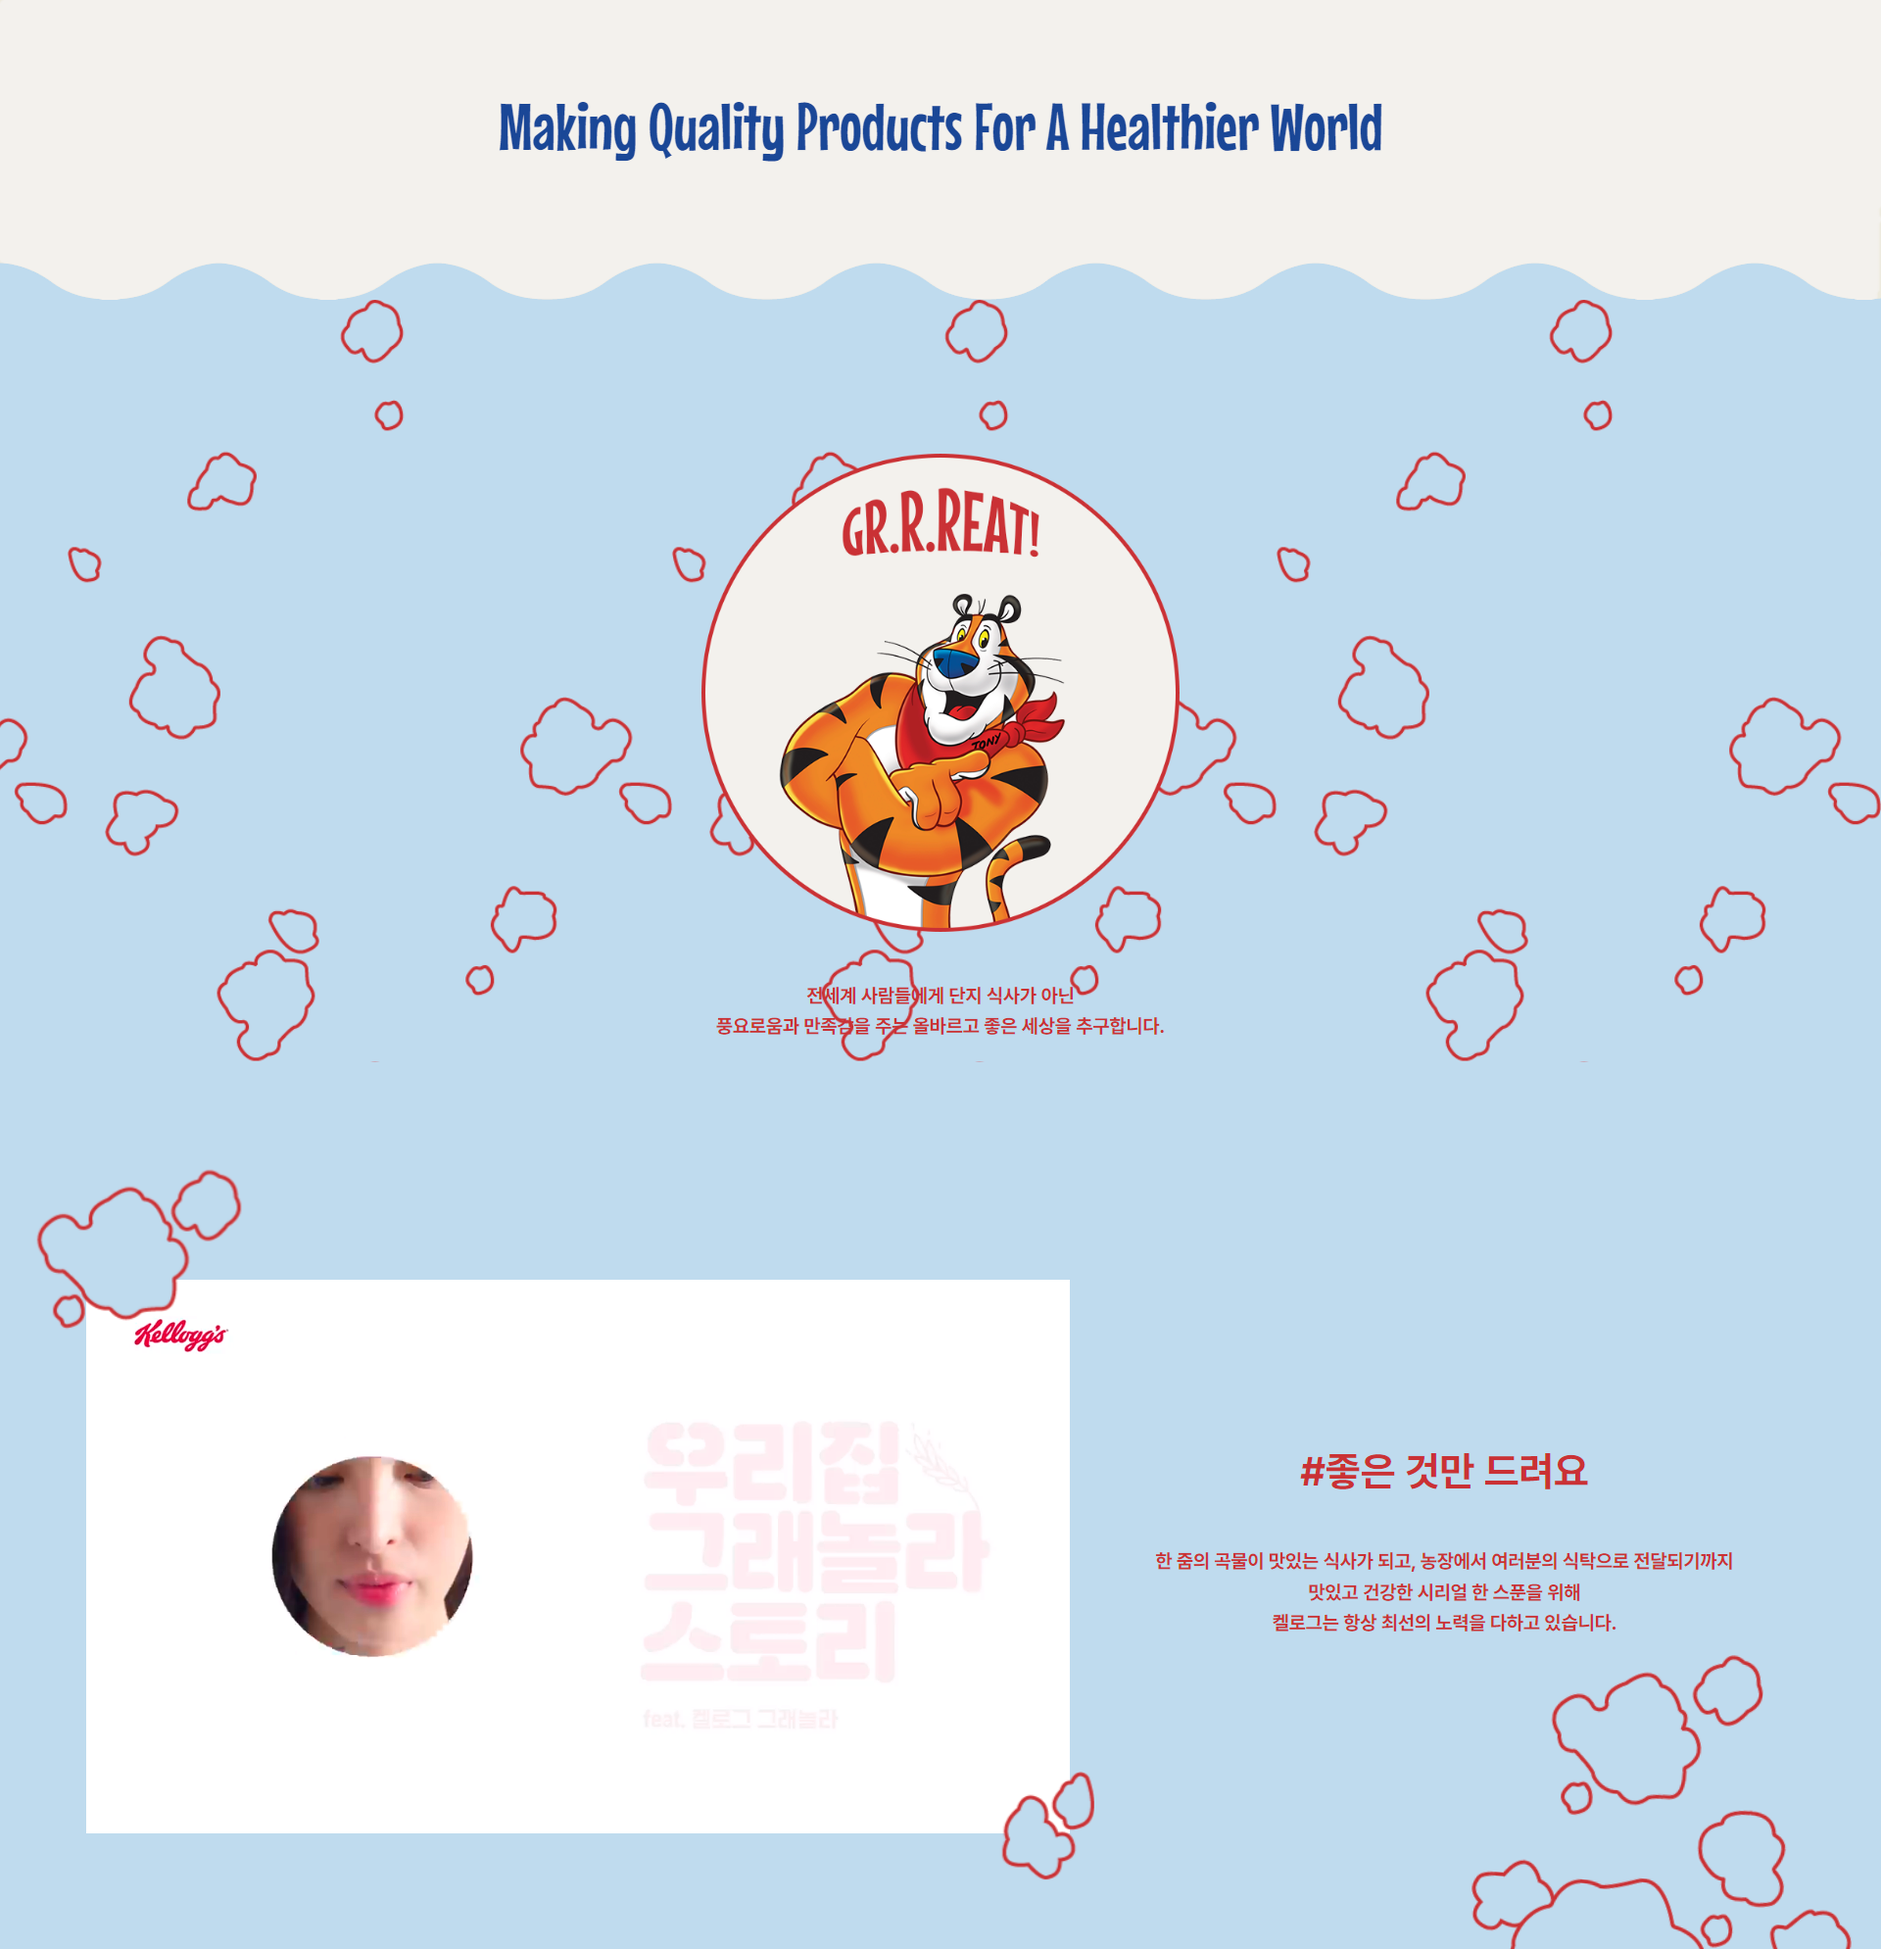
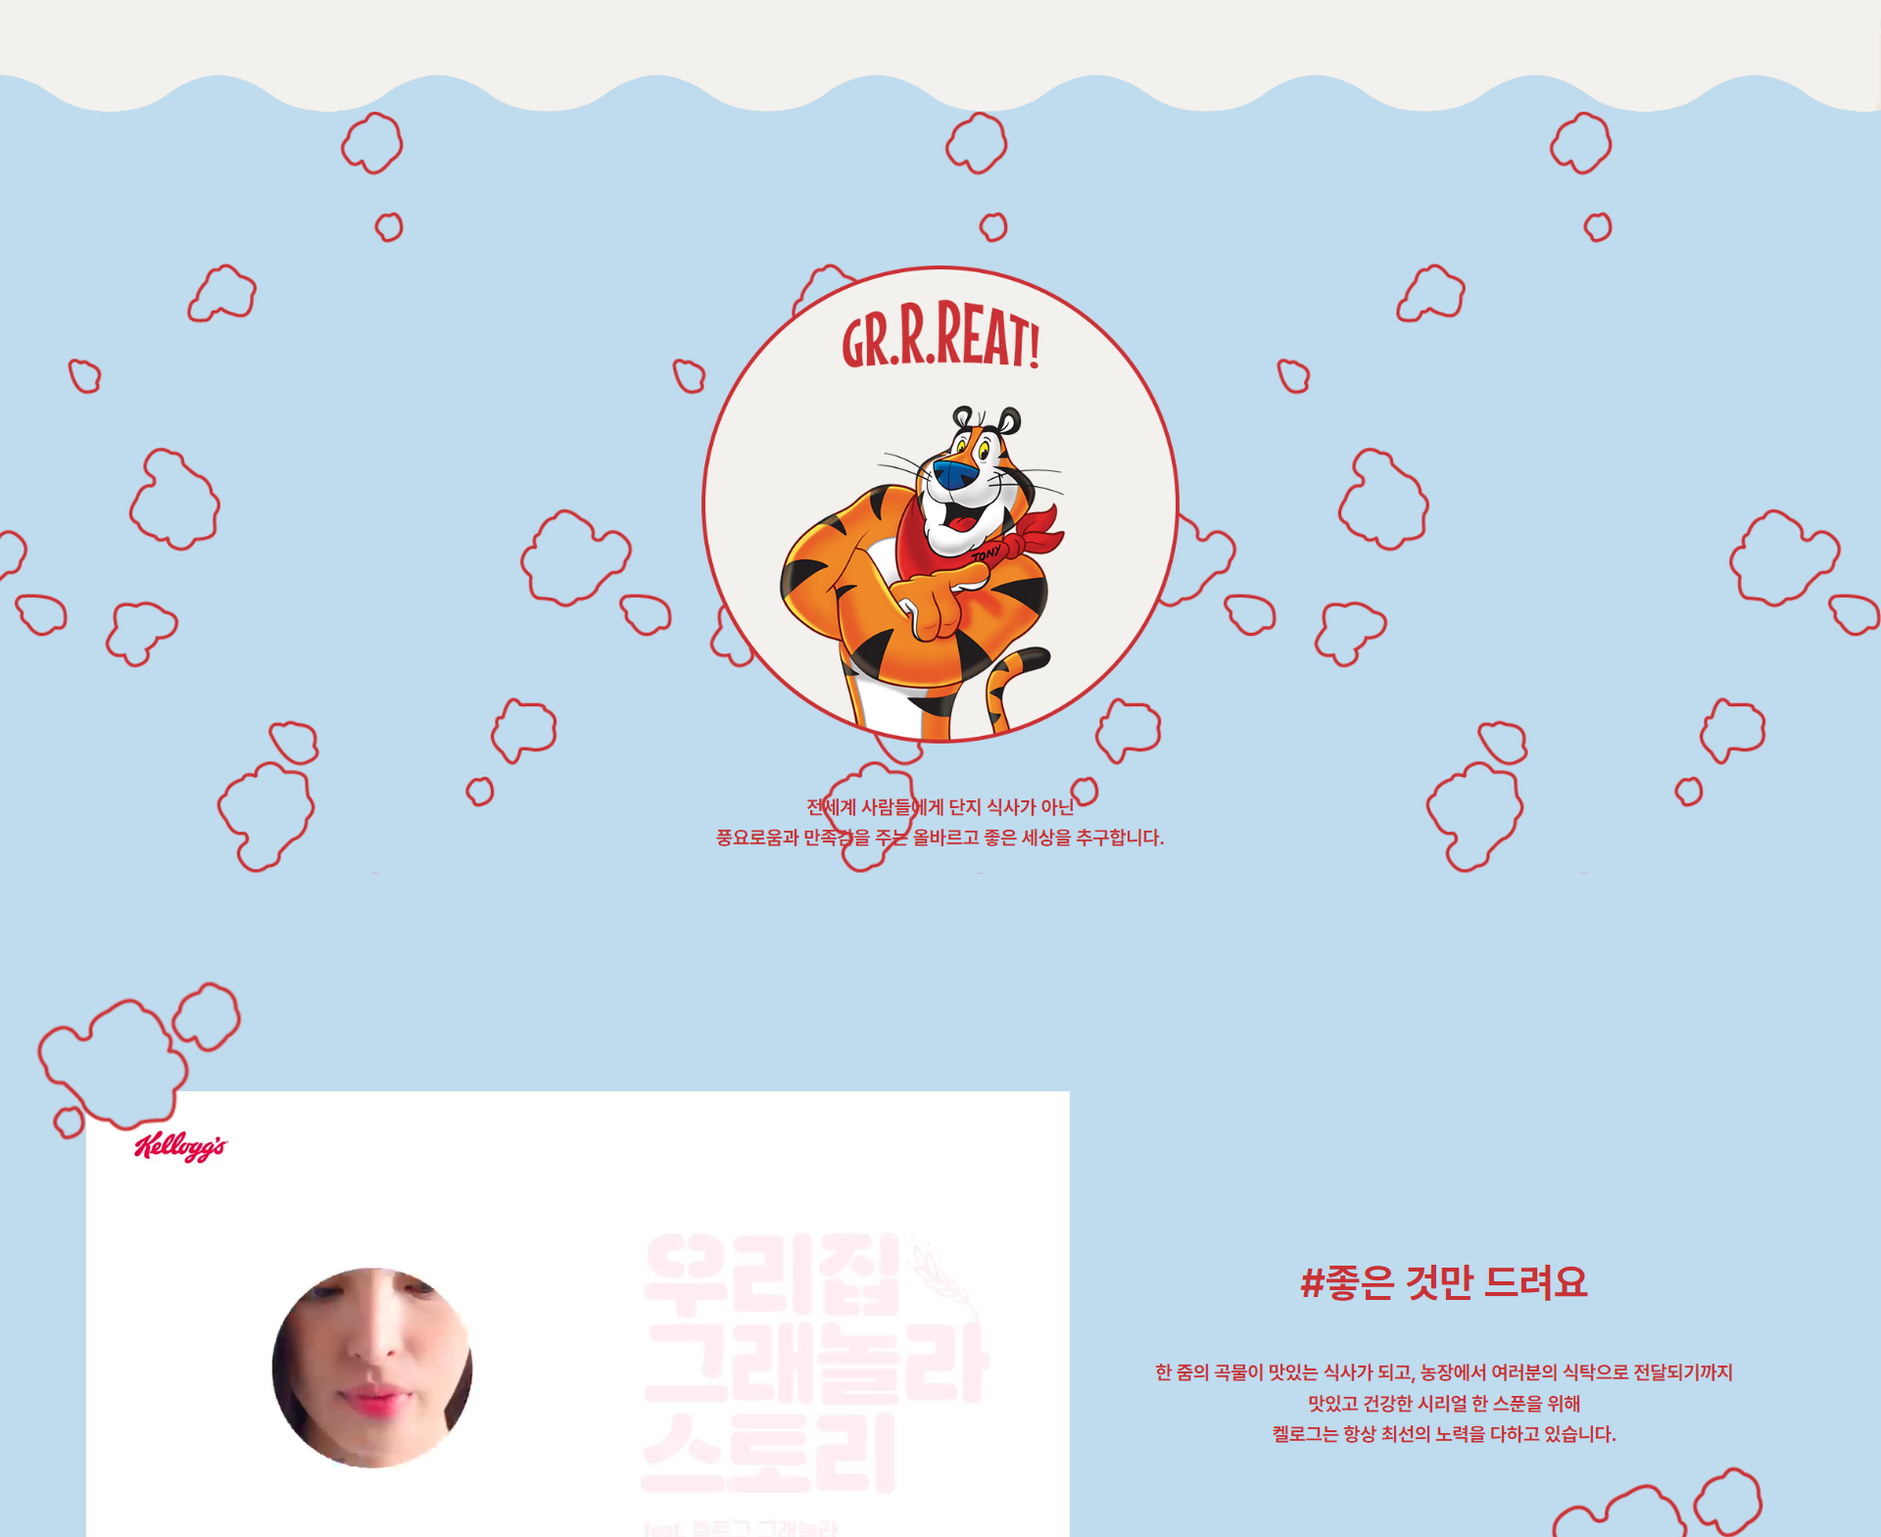
pj 수정

diff --git a/projects/css/project3.css b/projects/css/project3.css
@@ -240,7 +240,7 @@ section {
   padding-top: 50px;
 }
 #main_txt .tag {
-  width: 25vw;
+  width: 400px;
   display: flex;
   flex-wrap: wrap;
   margin-left: 0.781vw;
@@ -260,10 +260,9 @@ section {
 
 /* img */
 #main_img img {
+  width: 90%;
   border: 5px solid #000;
   border-radius: 5px;
-}
-#main_img .main {
   margin-right: 5vw;
 }
 
@@ -275,7 +274,7 @@ section {
   justify-content: space-between;
 }
 #overview h2 {
-  width: 12.5vw;
+  width: 200px;
 }
 
 /* ov txt */
@@ -349,11 +348,11 @@ section {
   justify-content: space-between;
 }
 #proSol h2 {
-  width: 13.021vw;
+  width: 200px;
 }
 #proSol h2:last-child {
   margin-top: 2vw;
-  width: 11vw;
+  width: 170px;
 }
 .psTitle {
   display: flex;
@@ -382,7 +381,7 @@ section {
 
 /*****------- design -------*****/
 #design {
-  margin-top: 14.813vw;
+  margin-top: 150px;
 }
 #design h2 {
   width: 9.5vw;
@@ -498,7 +497,7 @@ section {
   height: 22.917vw;
 }
 #publish h2 {
-  width: 14vw;
+  width: 210px;
 }
 .pub_txt {
   margin-top: 2.604vw;
@@ -519,7 +518,7 @@ section {
   margin-top: 8vw;
 }
 #review h2 {
-  width: 9.375vw;
+  width: 150px;
   margin-bottom: 5.208vw;
 }
 #review_txt {

diff --git a/projects/css/project1.css b/projects/css/project1.css
@@ -237,7 +237,7 @@ section {
   margin-left: 0.521vw;
 }
 #main_txt .tag {
-  width: 25vw;
+  width: 400px;
   display: flex;
   flex-wrap: wrap;
   margin-left: 0.781vw;
@@ -293,7 +293,7 @@ section {
   justify-content: space-between;
 }
 #overview h2 {
-  width: 12.5vw;
+  width: 200px;
 }
 
 /* ov txt */
@@ -367,11 +367,11 @@ section {
   justify-content: space-between;
 }
 #proSol h2 {
-  width: 13.021vw;
+  width: 200px;
 }
 #proSol h2:last-child {
   margin-top: 2vw;
-  width: 11vw;
+  width: 170px;
 }
 .psTitle {
   display: flex;
@@ -403,7 +403,7 @@ section {
   margin-top: 14.813vw;
 }
 #design h2 {
-  width: 9.5vw;
+  width: 150px;
 }
 
 /* img */
@@ -498,7 +498,7 @@ section {
   height: 22.917vw;
 }
 #publish h2 {
-  width: 14vw;
+  width: 210px;
 }
 .pub_txt {
   margin-top: 2.604vw;
@@ -519,7 +519,7 @@ section {
   margin-top: 8vw;
 }
 #review h2 {
-  width: 9.375vw;
+  width: 150px;
   margin-bottom: 5.208vw;
 }
 #review_txt {
